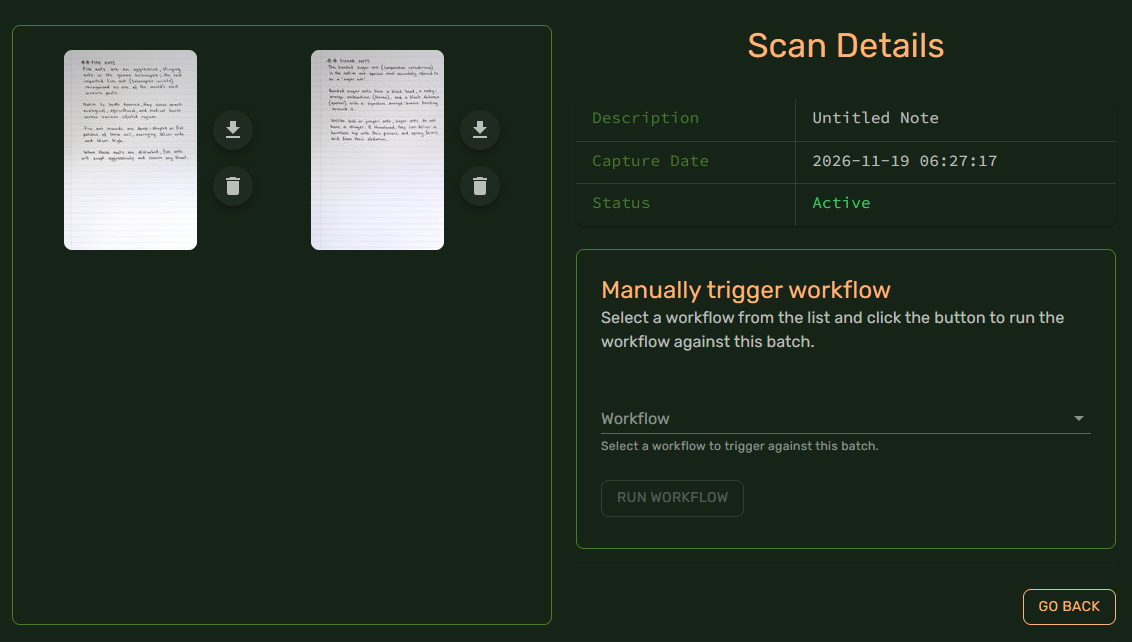
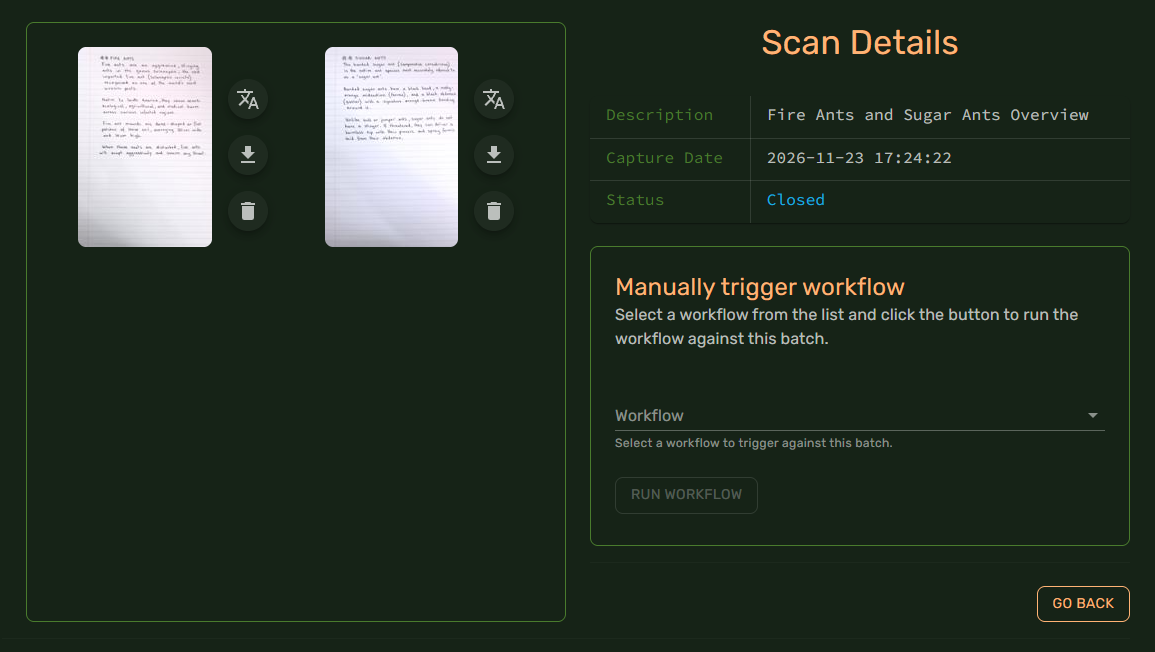
docs: added search / transcribe closes #56

diff --git a/src/docs/docs-general/using-your-server/searching-your-scans.md b/src/docs/docs-general/using-your-server/searching-your-scans.md
@@ -1,0 +1,49 @@
+---
+sidebar_position: 2
+description: "Searching within your scans for text"
+---
+# Searching your scans
+
+Bottle Rocket can be configured to perform OCR / text recognition on incoming images to extract text data from them.
+
+Where this has been performed on one or more of your scans, they then become *searchable*, i.e. you can search for key words *inside*
+your scanned images.
+
+## Transcribing an image to text
+:::tip 
+To ensure that your image is *transcribed*, simply run a *Text Recognition* workflow step on it.
+
+Bottle Rocket supports a range of OCR workflow steps from a variety of sources.  
+:::
+
+<div class="text--center">
+![Text recognition steps](/img/textRecognitionSteps.png)
+</div>
+
+* After running the given text recognition workflow step against a set of one or more scans, when you navigate to **My scans**, 
+for the given set of images, you should now find the **Transcription** button available at the top, next to each scanned image.
+
+<div class="text--center">
+![Transcription button](/img/transcriptionButton.png)
+</div>
+
+* Click on this button to bring up the transcription dialog.
+
+<div class="text--center">
+![Transcription dialog](/img/transcriptionWindow.png)
+</div>
+
+* The left pane will display the text that the OCR workflow step retrieved from the image.
+* The right pane will contain a link to the execution where the OCR was performed, as well as the date.
+
+## Searching the scans
+
+This text is now searchable. 
+
+Navigate back to **My Scans**, and enter a search term in the text field.
+
+Any *transcribed* text that contains your search term will appear in the filtered results.
+
+<div class="text--center">
+![Search results](/img/searchResults.png)
+</div>

diff --git a/src/docs/docs-general/using-your-server/viewing-your-scans.md b/src/docs/docs-general/using-your-server/viewing-your-scans.md
@@ -40,6 +40,8 @@ The details screen contains the entire set of scans for a given batch.
 
 For each scanned image:
 * Click the image to bring up a full-sized display of the image that was captured.
+* If the text in the image has been [transcribed](./searching-your-scans.md#transcribing-an-image-to-text), click the **transcription** button to view the data
+that Bottle Rocket was able to transcribe from the image.
 * Click the **download** icon to the right of the image to download the captured image to your local file system.
 * Click the **trash / delete** icon to the right of the image to confirm deletion of the image.
 * You can use this page to trigger a [workflow](../configure-your-server/workflows#what-are-workflows)

diff --git a/src/docs/docs-general/using-your-server/viewing-your-device-logins.md b/src/docs/docs-general/using-your-server/viewing-your-device-logins.md
@@ -1,5 +1,5 @@
 ---
-sidebar_position: 2
+sidebar_position: 3
 description: "Viewing and managing Bottle Rocket login sessions"
 ---
 # Viewing your device logins
